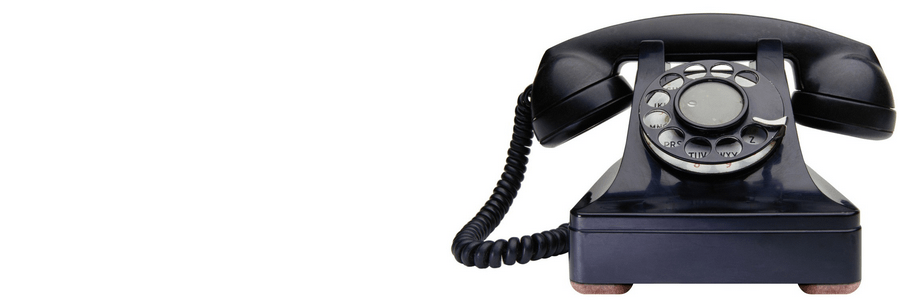
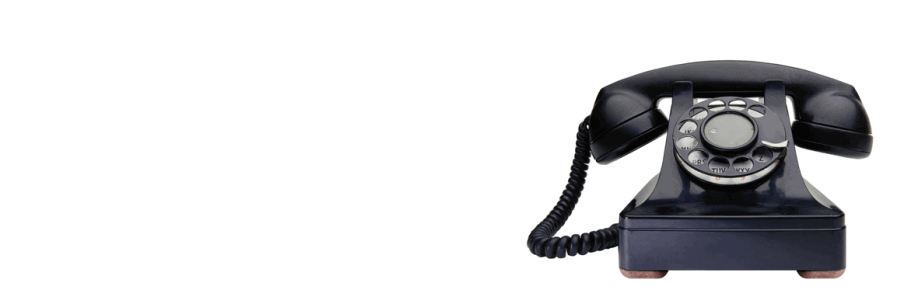
Chenged First slide text and image

Changed region(s): [[0.4978, 0.03, 1.0, 0.99]]

diff --git a/Finestra/index.html b/Finestra/index.html
@@ -143,8 +143,8 @@
                         <ul>
                             <li title="Finestra pocela sa radom!" style="background-image:url(/resources/images/Slide_1_Pocetak.png); background-size: 100%; width: 20%;">
                                 <div class="finestra-sprite-layout">
-                                    <h1>Početak!</h1>
-                                    <div><mark>Finestra</mark> je počela sa radom. Očekujemo Vas.</div>
+                                    <h1>Finestra!</h1>
+                                    <div>"Za toplije zime i hladnija leta, za bolje sutra"</div>
                                 </div>
                             </li>
                             <li style="background-image:url(/resources/images/Slide_3_profili.png); background-size: 100%; width: 20%;" title="Aluminijumski i PVC profili">
